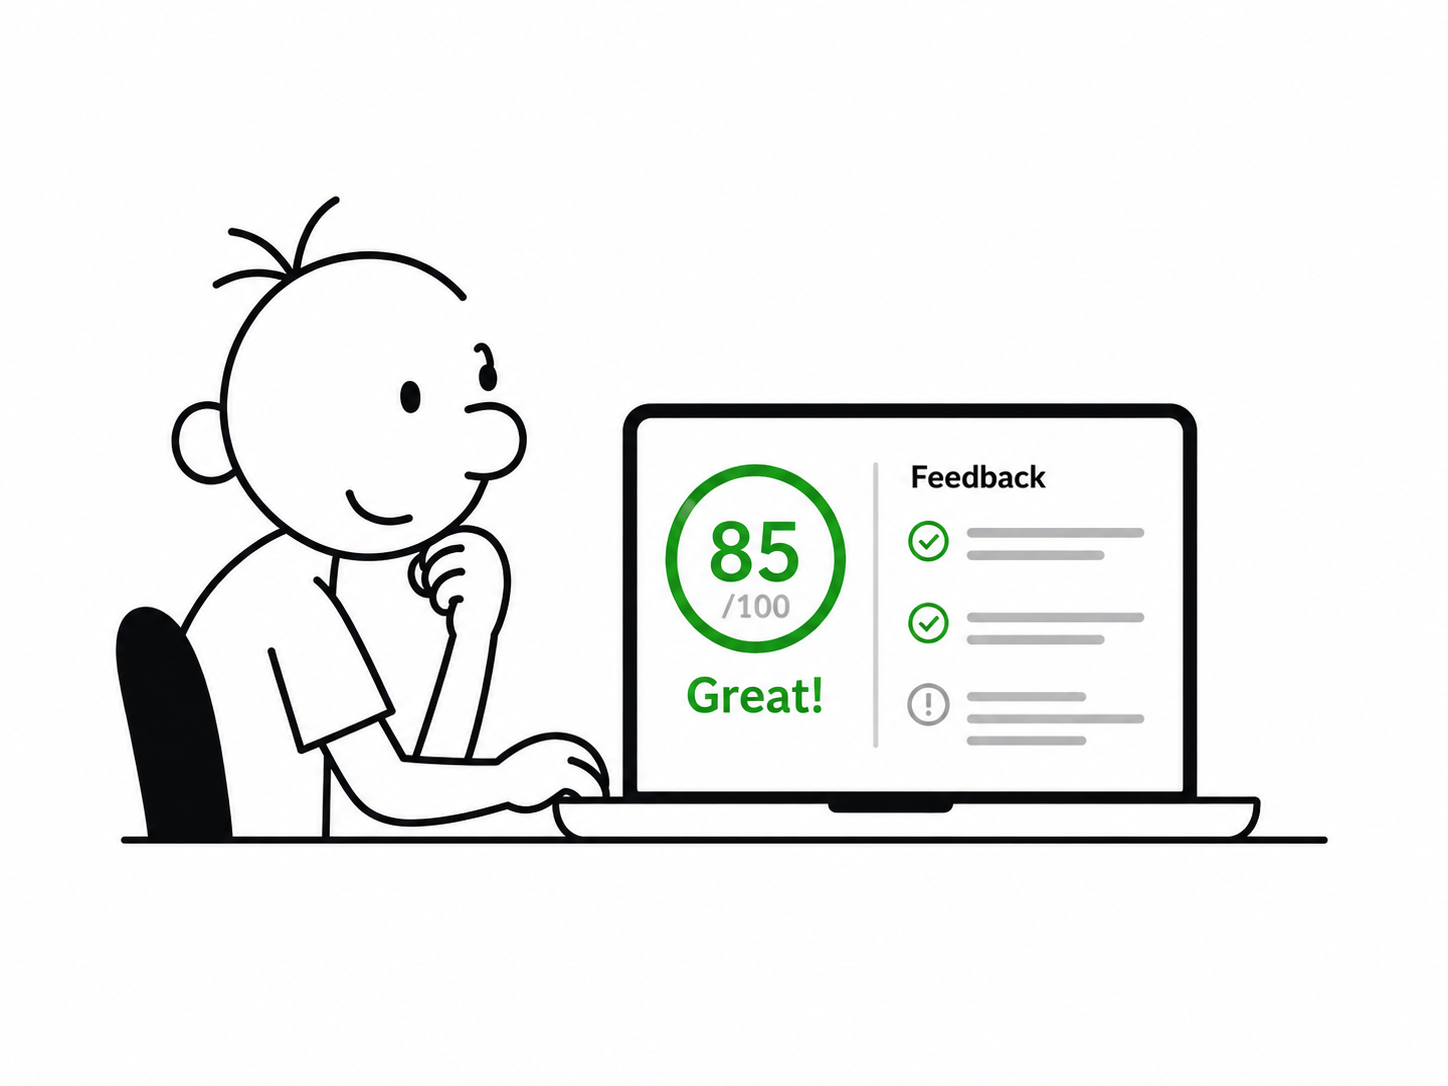
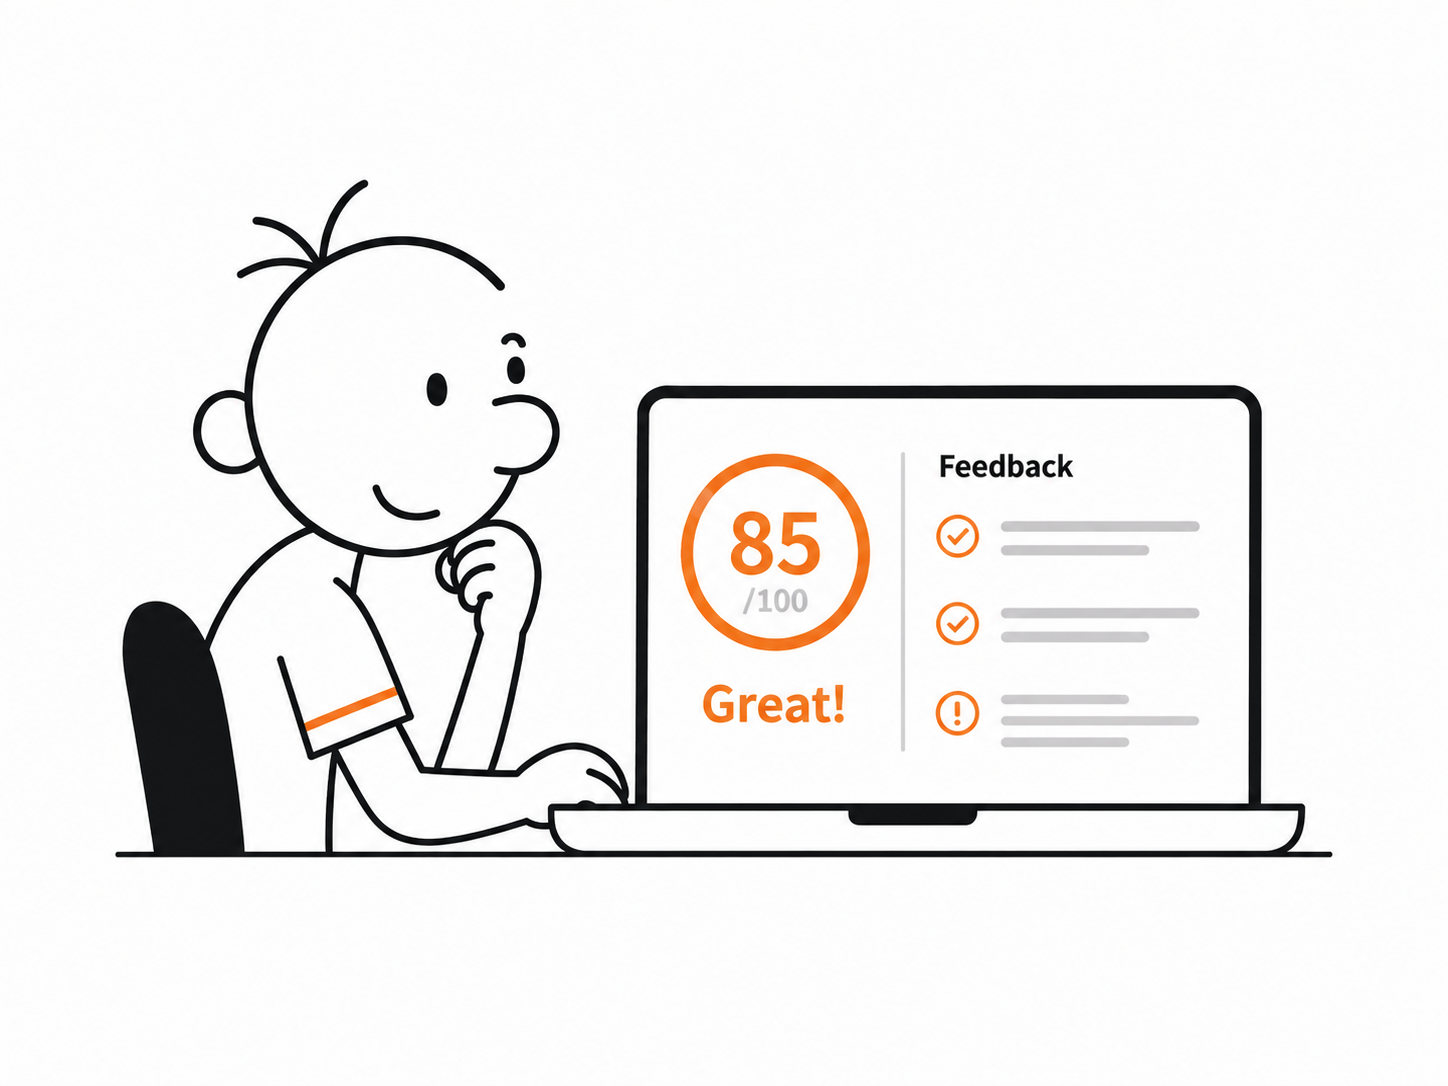
Showcase modifications

Changed region(s): [[0.0622, 0.1519, 0.9323, 0.7901], [0.0622, 0.5773, 0.0932, 0.6685], [0.0932, 0.6989, 0.1243, 0.7293]]

diff --git a/src/main/resources/static/login.html b/src/main/resources/static/login.html
@@ -316,13 +316,13 @@
         var features = [
             {
                 title: 'Markdown Uploads',
-                description: 'Import your existing Markdown notes and turn them into structured review topics.',
+                description: 'Import your existing notes and turn them into review topics.',
                 image: 'images/features/markdown-uploads.png',
                 alt: 'Markdown notes being turned into Recall Forge review topics'
             },
             {
                 title: 'Adaptive Questions',
-                description: 'Receive questions adapted to your previous scores and current level of recall.',
+                description: 'Receive questions adapted to your previous scores.',
                 image: 'images/features/adaptive-questions.png',
                 alt: 'Recall Forge adapting a review question to the learner'
             },
@@ -340,13 +340,13 @@
             },
             {
                 title: 'Code Challenge',
-                description: 'Request code challenges on topic and receive feedback on your solutions.',
+                description: 'Request code challenges on topic and receive feedback.',
                 image: 'images/features/code-challenge.png',
                 alt: 'A learner solving a Recall Forge coding challenge'
             },
             {
                 title: 'Starter Packs',
-                description: 'Begin immediately with ready-made collections of developer topics.',
+                description: 'Begin immediately with ready-made collections.',
                 image: 'images/features/starter-packs.png',
                 alt: 'A learner opening a Recall Forge starter pack of developer topics'
             },
